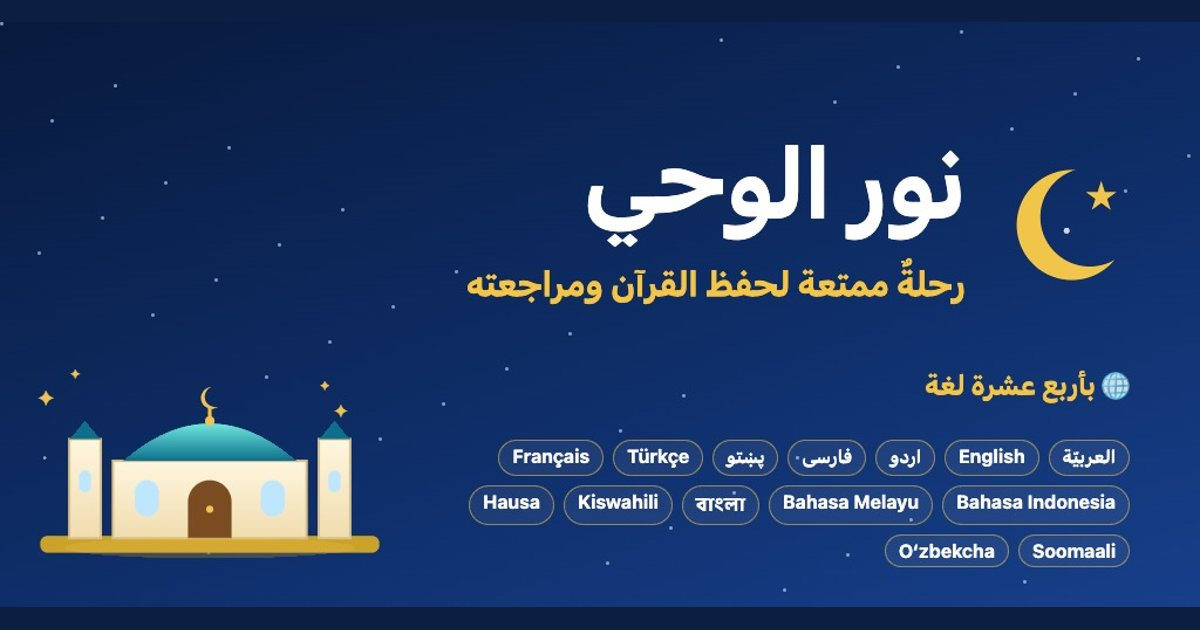
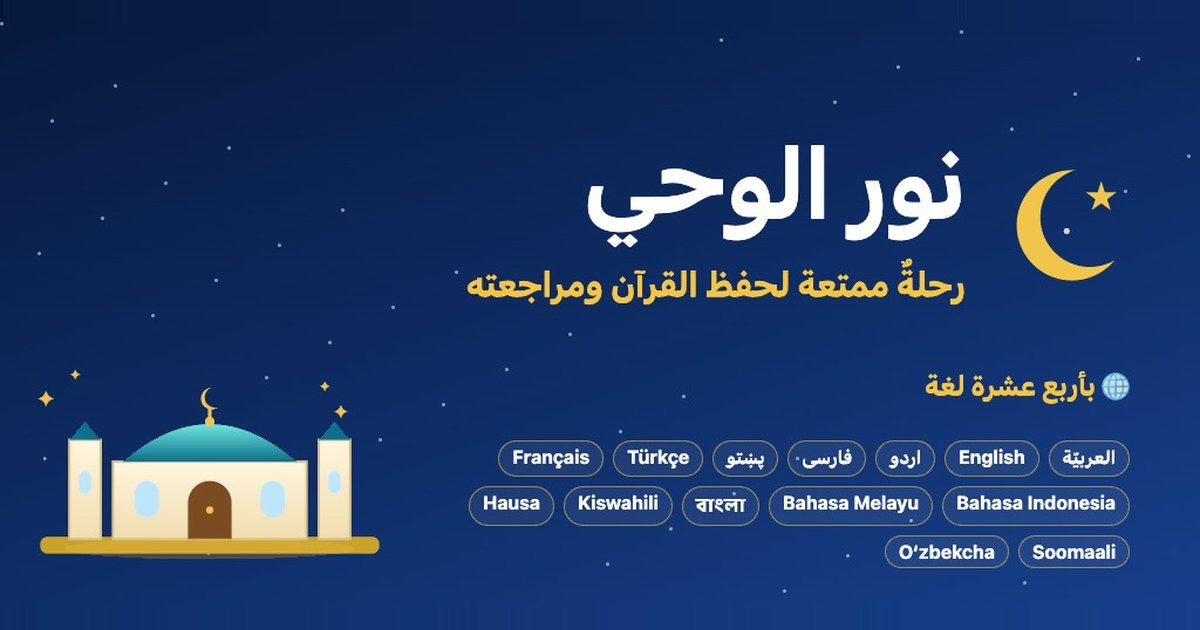
🖼 صورةُ المشاركة في واتساب وغيره تملأ إطارها بلا شريطين داكنين، ورابطُ get/ يشير إلى صورته هو لا إلى nuralwahy.app قبل أن تصدر شهادتُه

diff --git a/get/index.html b/get/index.html
@@ -12,8 +12,8 @@
 <meta property="og:locale" content="ar_AR">
 <meta property="og:title" content="نور الوحي — حفظ القرآن رحلةٌ ممتعة">
 <meta property="og:description" content="تطبيقٌ مجّانيّ لحفظ القرآن ومراجعته، للصغار والكبار. بلا إعلانات، ويعمل دون إنترنت.">
-<meta property="og:url" content="https://nuralwahy.app/">
-<meta property="og:image" content="https://nuralwahy.app/img/og.jpg">
+<meta property="og:url" content="https://znammous.github.io/quran-kids/get/">
+<meta property="og:image" content="https://znammous.github.io/quran-kids/get/img/og.jpg">
 <meta property="og:image:width" content="1200">
 <meta property="og:image:height" content="630">
 <meta name="twitter:card" content="summary_large_image">
